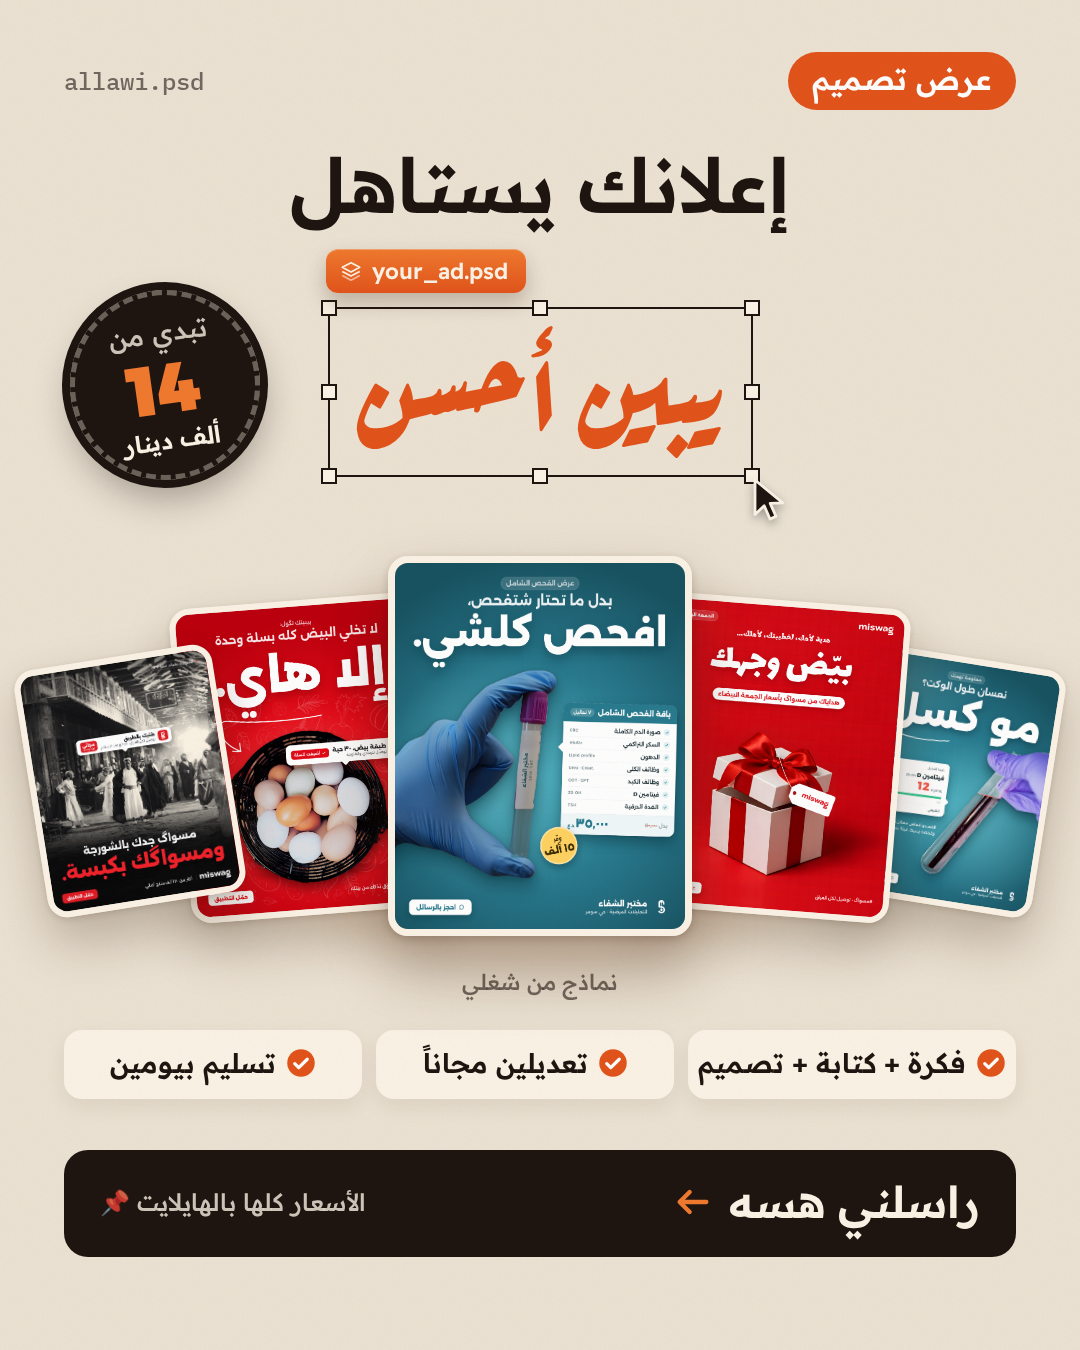
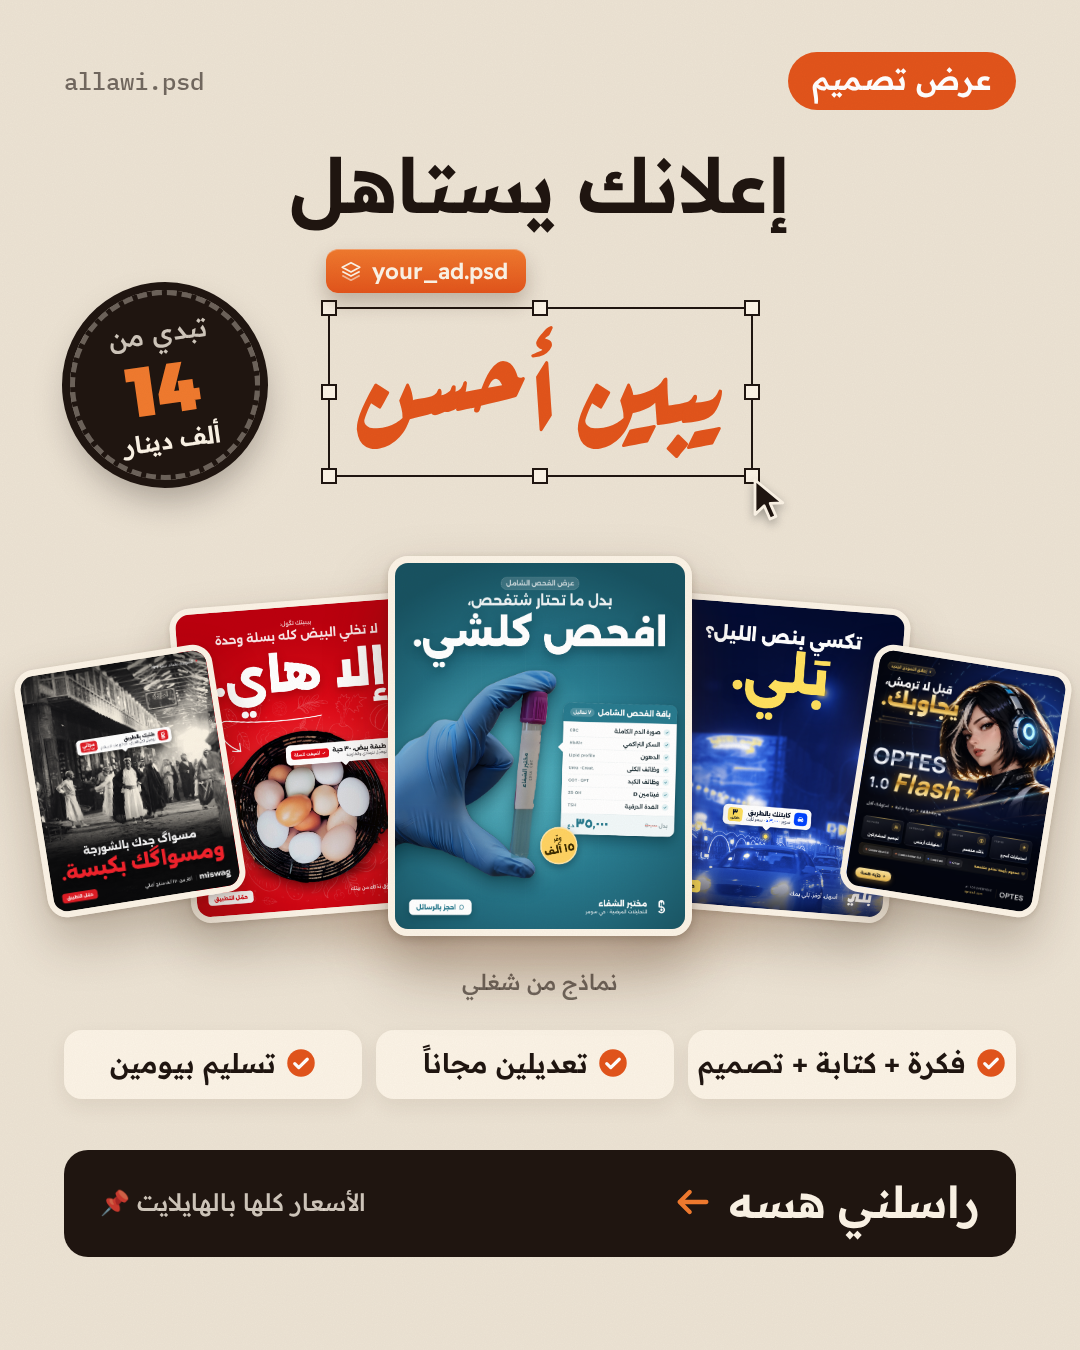
Offer post: one design per brand (Miswag, Sala, Al-Shifa, Baly, Optes)
Claude-Session: https://claude.ai/code/session_013oWw8PeK3nbdaZG97hkGWn

Changed region(s): [[0.6417, 0.4356, 1.0, 0.6844]]

diff --git a/marketing/ig-offer/offer.html b/marketing/ig-offer/offer.html
@@ -126,9 +126,9 @@ body { background:#333; display:flex; gap:40px; padding:40px; align-items:flex-s
   <div class="glow" style="top:560px"></div>
   <div class="fan" style="top:556px">
     <img src="../miswag-ad/out/miswag-ad.png" style="left:30px; top:100px; width:200px; height:250px; transform:rotate(-9deg); z-index:3" />
-    <img src="../alshifa-lab/out/alshifa-vitamin-d.png" style="left:850px; top:100px; width:200px; height:250px; transform:rotate(9deg)" />
+    <img src="../optes-ad/out/optes-flash.png" style="left:856px; top:100px; width:200px; height:250px; transform:rotate(9deg); z-index:3" />
     <img src="../sala-ad/out/sala-ad.png" style="left:180px; top:44px; width:252px; height:315px; transform:rotate(-4.5deg); z-index:2" />
-    <img src="../miswag-white-friday/out/miswag-white-friday-2.png" style="left:648px; top:44px; width:252px; height:315px; transform:rotate(4.5deg); z-index:2" />
+    <img src="../baly-ad/out/baly-ad.png" style="left:648px; top:44px; width:252px; height:315px; transform:rotate(4.5deg); z-index:2" />
     <img class="hero" src="../alshifa-lab/out/alshifa-offer.png" style="left:388px; top:0; width:304px; height:380px; z-index:4" />
   </div>
   <div class="badge" style="left:70px; top:290px; width:190px; height:190px; z-index:6"><small>تبدي من</small><b style="font-size:70px">14</b><span>ألف دينار</span></div>

diff --git a/marketing/ig-offer/README.md b/marketing/ig-offer/README.md
@@ -5,7 +5,7 @@
 - `post` (1080x1350): the offer ad.
   - Headline «إعلانك يستاهل / يبين أحسن», with the Photoshop selection on the second line.
   - A «تبدي من 14 ألف» badge beside the headline.
-  - A fan of five real designs with an orange glow behind. From left to right: Miswag Shorja, Sala, the Al-Shifa lab offer (biggest, in front), Miswag White Friday and vitamin D.
+  - A fan of five real designs with an orange glow behind. From left to right, one per brand: Miswag, Sala, the Al-Shifa lab offer (biggest, in front), Baly and Optes.
   - Three perks and a «راسلني هسه» bar that points to the price highlight.
 - `h1`, `h2`, `h3` (1080x1920): highlight stories.
   - `h1`: single prices.
